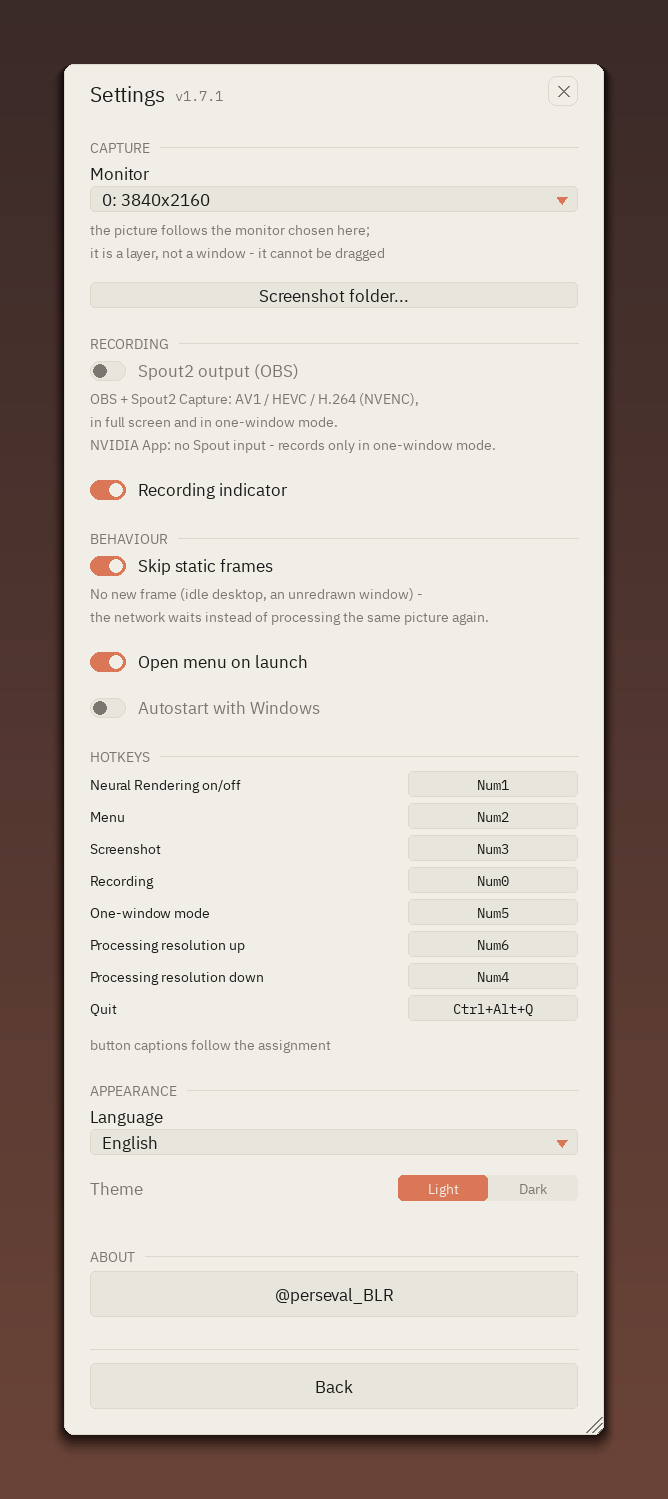
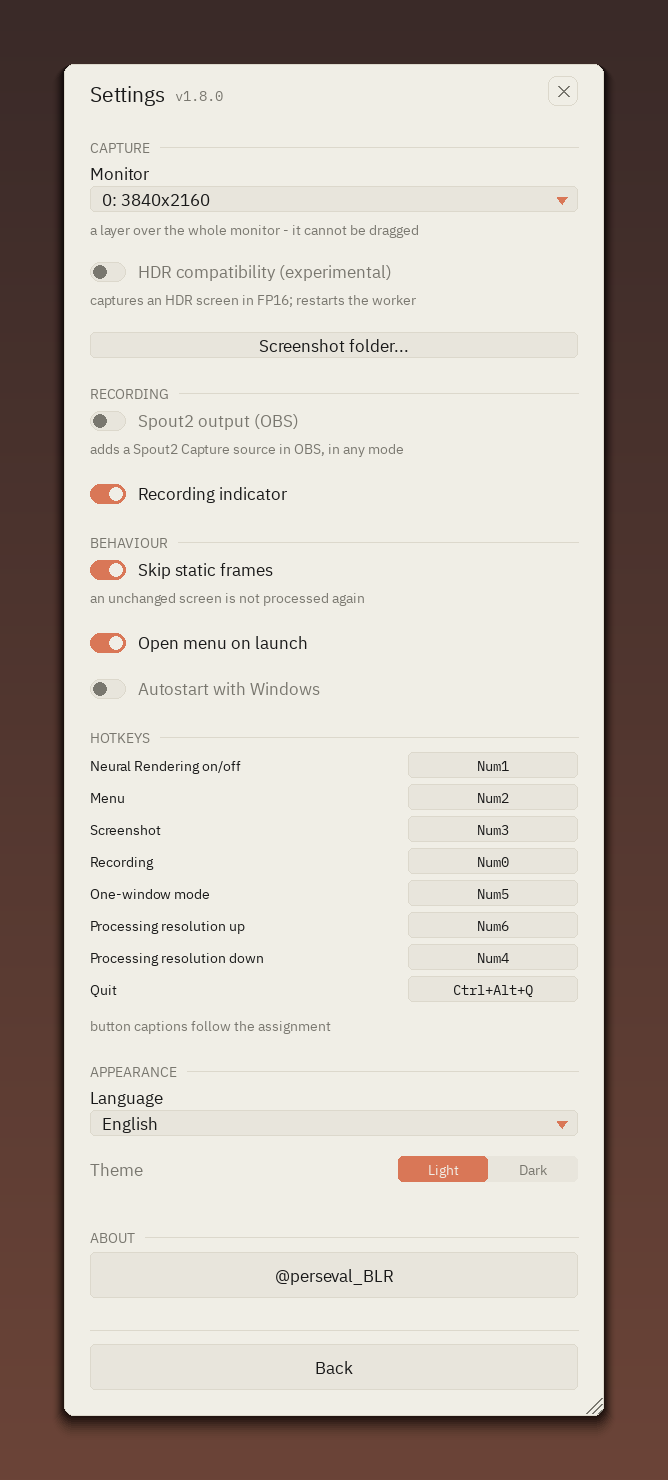
release: 1.8.0
Experimental HDR capture and scRGB presentation, off behind a switch in
SETTINGS -> CAPTURE, and one line under every control instead of a
paragraph. The four documentation images are regenerated: the settings
page is a different shape now, and it carries the new switch.

diff --git a/tests/autocheck.py b/tests/autocheck.py
@@ -88,9 +88,9 @@ def personal_config_keys():
 
 
 def zip_integrity():
-    zpath = ROOT / "neuralscreen-v1.7.1-full.zip"
+    zpath = ROOT / "neuralscreen-v1.8.0-full.zip"
     if not zpath.is_file():
-        return False, "no neuralscreen-v1.7.1-full.zip"
+        return False, "no neuralscreen-v1.8.0-full.zip"
     required = [
         "main.py", "gpuinfo.py", "overlay_ui.py", "i18n.py", "recorder.py",
         "display.py", "guides.py", "hotkeys.py", "tray.py", "capture.py",
@@ -179,8 +179,8 @@ def zip_integrity():
         zsha = hashlib.sha256(zip_dll).hexdigest()
         if f"sha256 {zsha}" not in vt:
             return False, "VERSION.txt runtime sha != the DLL inside the archive"
-        if "NeuralScreen 1.7.1" not in vt:
-            return False, "VERSION.txt version does not match v1.7.1"
+        if "NeuralScreen 1.8.0" not in vt:
+            return False, "VERSION.txt version does not match v1.8.0"
     return True, f"{zpath.stat().st_size} bytes, all files, the hook, a default config, a truthful manifest"
 
 

diff --git a/build_release_zip.py b/build_release_zip.py
@@ -17,7 +17,7 @@ from pathlib import Path
 BASE = Path(__file__).resolve().parent
 os.chdir(BASE)
 
-VERSION = "1.7.1"
+VERSION = "1.8.0"
 # The bundle is architecture-agnostic by design: the dcc0dc24 runtime and
 # the 0x1B0 spoof work on RTX 30/40/50 (v1.3.0 behaviour). The manifest
 # still records what is inside so a mismatch is catchable.

diff --git a/settings_io.py b/settings_io.py
@@ -115,7 +115,7 @@ def _set_autostart(enabled: bool) -> bool:
 
 # The version shown in the menu header. Kept in sync with native/launcher.rc
 # (FileVersion/ProductVersion) and build_release_zip.py at release time.
-APP_VERSION = "1.7.1"
+APP_VERSION = "1.8.0"
 
 
 # The channel label: the header shows the version, the channel lives in the
